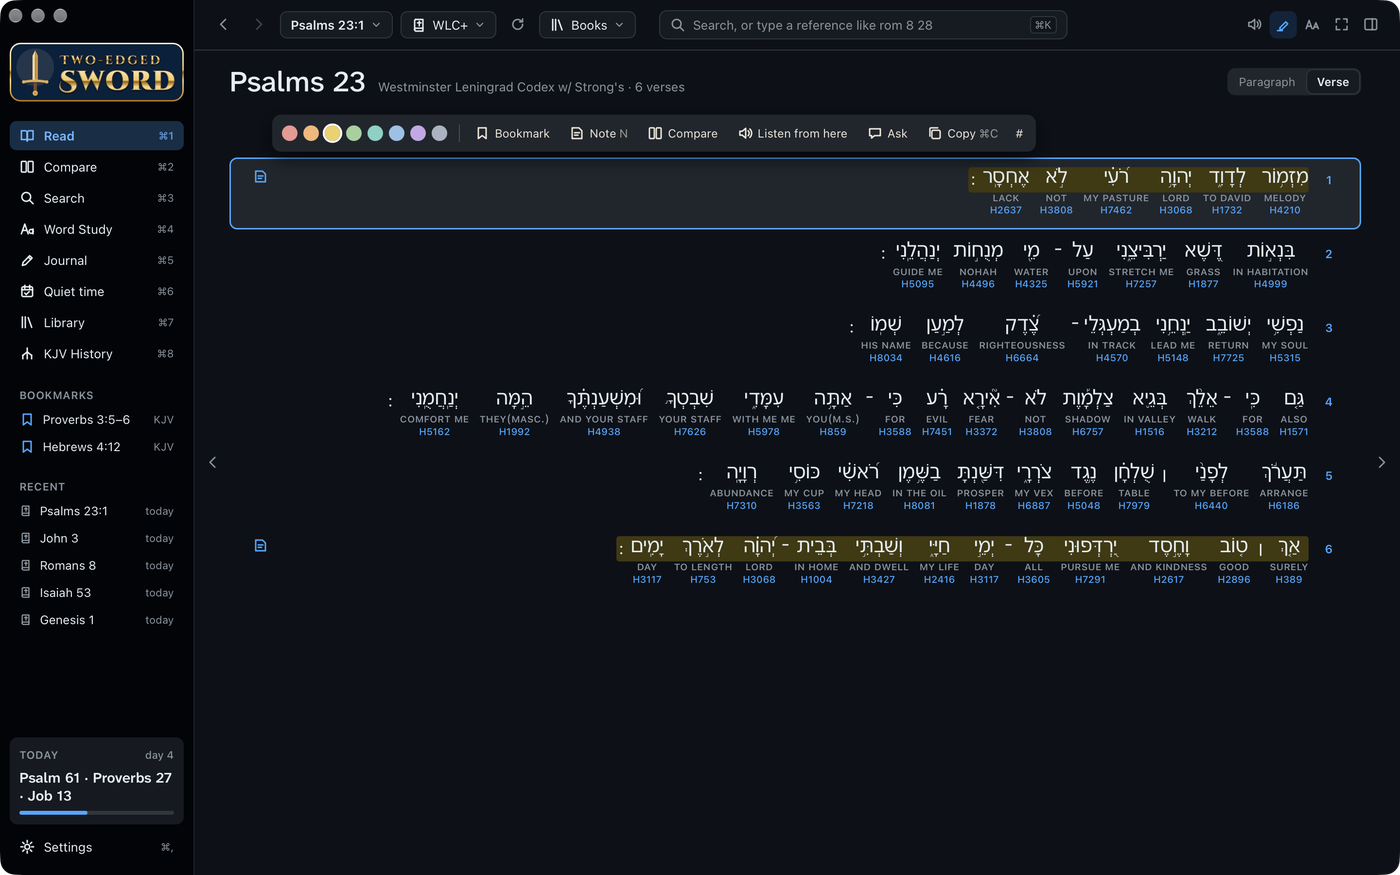
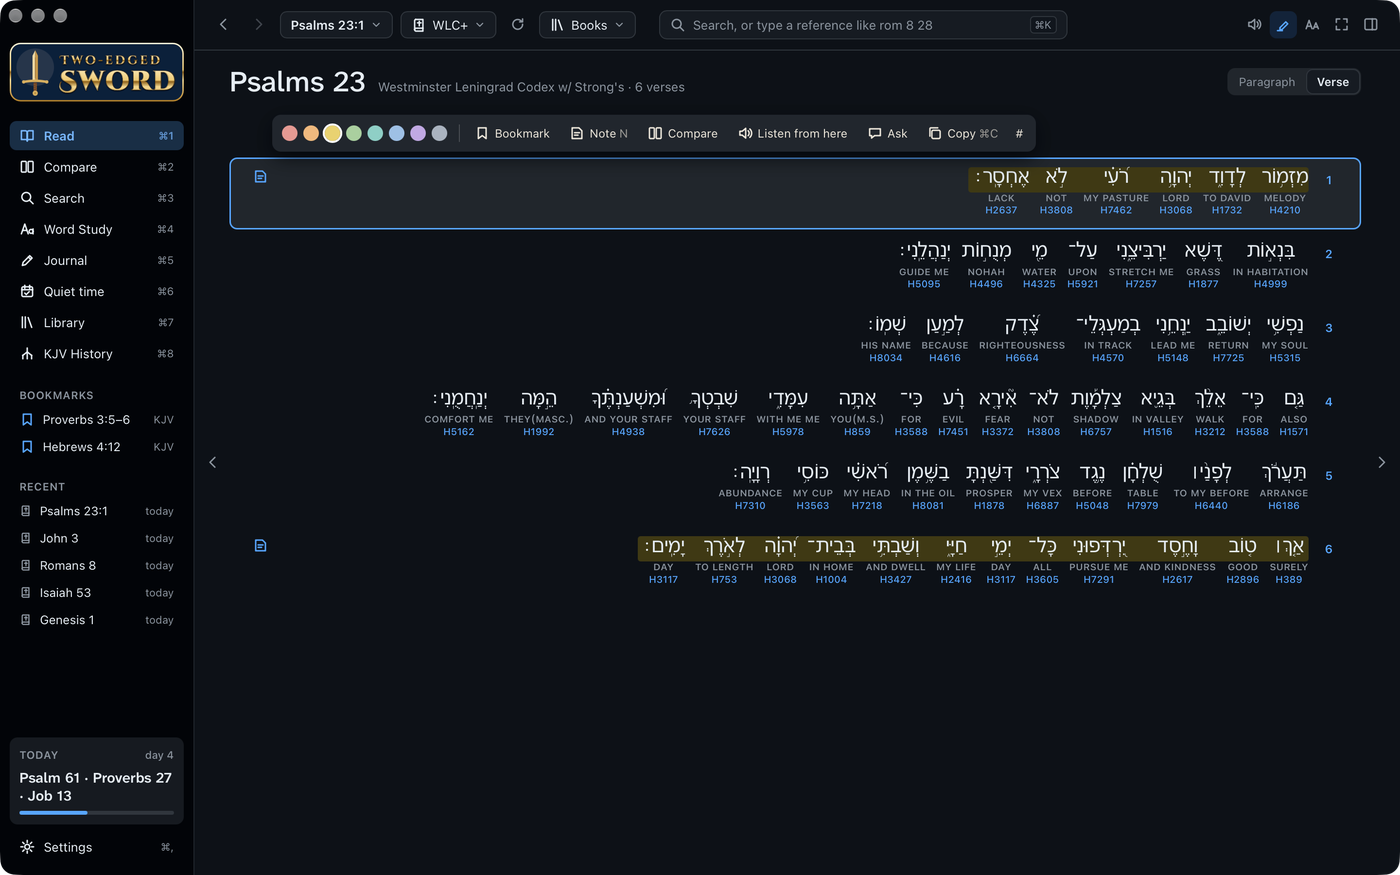
Interlinear Bibles: punctuation after a word sits in the word's box, not after its margin (Beza 1598+ showed 'ἔσται .'); interlinear screenshots retaken

diff --git a/src/Read.tsx b/src/Read.tsx
@@ -44,14 +44,19 @@ export function VerseText({ tokens, red, speakingChar, onWord, activeWi, showNum
   // One with grammar but no English reads inline, like any Strong's Bible, the grammar in the word's tooltip.
   if (tokens.some((t) => t.gloss !== undefined)) {
     const marked = tokens.some((t) => t.editions);
+    const boxed = (t?: Token) => !!t?.word && (t.gloss !== undefined || t.parse !== undefined || t.strongs.length > 0);
+    // Punctuation straight after a word goes in its box, or the box's margin puts a space before it ("ἔσται .").
+    const trailing = (i: number) => (!tokens[i].word && !tokens[i].variant && /^[^\s\p{L}\p{N}]+$/u.test(tokens[i].text) && boxed(tokens[i - 1]) ? tokens[i].text : "");
     return (
     <>
       {tokens.map((t, i) => {
-        if (!t.word || !(t.gloss !== undefined || t.parse !== undefined || t.strongs.length)) return t.text.trim() ? <span key={i} className={`il-p ${t.variant ? "var" : ""}`} title={t.variant ? vtitle : undefined}>{t.text}</span> : <Fragment key={i}>{" "}</Fragment>;
+        if (trailing(i)) return null;
+        if (!boxed(t)) return t.text.trim() ? <span key={i} className={`il-p ${t.variant ? "var" : ""}`} title={t.variant ? vtitle : undefined}>{t.text}</span> : <Fragment key={i}>{" "}</Fragment>;
         const speaking = speakingChar !== undefined && speakingChar >= t.at && speakingChar < t.at + t.text.length;
+        const after = i + 1 < tokens.length ? trailing(i + 1) : "";
         return (
           <span key={i} className={`il ${t.variant ? "var" : ""}`} title={tip(t)}>
-            <span className={`w ${activeWi === t.wi ? "on" : ""} ${speaking ? "speaking" : ""}`} onClick={(e) => { e.stopPropagation(); onWord?.(t, e.currentTarget); }}>{t.text}</span>
+            <span><span className={`w ${activeWi === t.wi ? "on" : ""} ${speaking ? "speaking" : ""}`} onClick={(e) => { e.stopPropagation(); onWord?.(t, e.currentTarget); }}>{t.text}</span>{after}</span>
             <span className="il-g">{t.gloss ?? "\u00a0"}</span>
             {showNums && <span className="il-n">{t.strongs.length ? t.strongs.map((n, k) => <Fragment key={n}>{k ? " " : ""}<span className="strongs" data-num={n}>{n}</span></Fragment>) : "\u00a0"}</span>}
             {marked && <span className="il-e">{t.editions || "\u00a0"}</span>}
